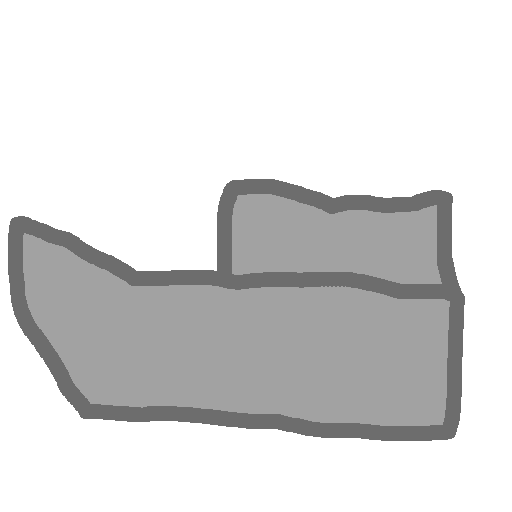
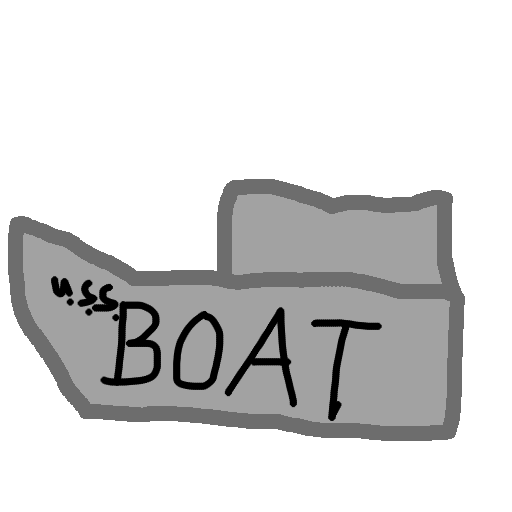
added boat and bubbles

Changed region(s): [[0.0938, 0.5312, 0.5938, 0.8125], [0.5938, 0.625, 0.75, 0.8438]]

diff --git a/src/mariana/Diver.ts b/src/mariana/Diver.ts
@@ -1,10 +1,12 @@
 import { Body, Circle } from "p2";
 import { Sprite } from "pixi.js";
 import img_diver from "../../resources/images/diver.png";
+import { Bubble } from "../Bubble";
 import BaseEntity from "../core/entity/BaseEntity";
 import Entity from "../core/entity/Entity";
 import { ControllerAxis, ControllerButton } from "../core/io/Gamepad";
 import { clamp } from "../core/util/MathUtil";
+import { rBool } from "../core/util/Random";
 import { V, V2d } from "../core/Vector";
 
 const DIVER_RADIUS = 1.0; // Size in meters
@@ -43,25 +45,10 @@ export class Diver extends BaseEntity implements Entity {
 
   onTick(dt: number) {
     if (this.getDepth() >= 0) {
-      const movementDirection = V(
-        this.game!.io.getAxis(ControllerAxis.LEFT_X),
-        this.game!.io.getAxis(ControllerAxis.LEFT_Y)
-      );
-      if (this.game!.io.keyIsDown("KeyS")) {
-        movementDirection[1] += 1;
+      if (rBool(dt)) {
+        this.game!.addEntity(new Bubble(this.getPosition().iadd([0, -0.7])));
       }
-      if (this.game!.io.keyIsDown("KeyW")) {
-        movementDirection[1] -= 1;
-      }
-      if (this.game!.io.keyIsDown("KeyA")) {
-        movementDirection[0] -= 1;
-      }
-      if (this.game!.io.keyIsDown("KeyD")) {
-        movementDirection[0] += 1;
-      }
-
-      movementDirection.magnitude = clamp(movementDirection.magnitude, 0, 1);
-
+      const movementDirection = this.getPlayerMoveInput();
       this.body.applyForce(movementDirection.imul(DIVER_SPEED));
 
       const friction = V(this.body.velocity).imul(-DIVER_FRICTION);
@@ -69,5 +56,30 @@ export class Diver extends BaseEntity implements Entity {
     } else {
       this.body.applyForce([0, this.body.mass * SURFACE_GRAVITY]);
     }
+  }
+
+  // Returns the direction that the player wants the diver to move
+  getPlayerMoveInput(): V2d {
+    const movementDirection = V(
+      this.game!.io.getAxis(ControllerAxis.LEFT_X),
+      this.game!.io.getAxis(ControllerAxis.LEFT_Y)
+    );
+    if (this.game!.io.keyIsDown("KeyS")) {
+      movementDirection[1] += 1;
+    }
+    if (this.game!.io.keyIsDown("KeyW")) {
+      movementDirection[1] -= 1;
+    }
+    if (this.game!.io.keyIsDown("KeyA")) {
+      movementDirection[0] -= 1;
+    }
+    if (this.game!.io.keyIsDown("KeyD")) {
+      movementDirection[0] += 1;
+    }
+
+    // so we don't move faster on diagonals
+    movementDirection.magnitude = clamp(movementDirection.magnitude, 0, 1);
+
+    return movementDirection;
   }
 }

diff --git a/src/Bubble.ts b/src/Bubble.ts
@@ -1,0 +1,33 @@
+import { Sprite } from "pixi.js";
+import img_bubble from "../resources/images/bubble.png";
+import BaseEntity from "./core/entity/BaseEntity";
+import Entity from "./core/entity/Entity";
+import { rNormal } from "./core/util/Random";
+import { V2d } from "./core/Vector";
+import { Layer } from "./mariana/config/layers";
+
+const SPEED = 12.0; // meters per second
+
+export class Bubble extends BaseEntity implements Entity {
+  constructor(position: V2d, private size: number = rNormal(0.22, 0.1)) {
+    super();
+
+    const sprite = (this.sprite = Sprite.from(img_bubble));
+    sprite.position.set(position[0], position[1]);
+    sprite.scale.set(size / sprite.texture.width);
+
+    this.sprite.layerName = Layer.WORLD_FRONT;
+  }
+
+  onAdd() {
+    console.log("new bubble");
+  }
+
+  onTick(dt: number) {
+    this.sprite!.y -= dt * SPEED * this.size;
+
+    if (this.sprite!.y <= 0) {
+      this.destroy();
+    }
+  }
+}

diff --git a/src/mariana/preloader/preloadImages.ts b/src/mariana/preloader/preloadImages.ts
@@ -1,11 +1,12 @@
 import img_background from "../../../resources/images/background.png";
 import img_boat from "../../../resources/images/boat.png";
+import img_bubble from "../../../resources/images/bubble.png";
 import img_diver from "../../../resources/images/diver.png";
 
 // Returns the list of all
 export function getImagesToPreload(): Set<string> {
   // use a set to make sure we don't include stuff multiple times
-  const urls = new Set([img_diver, img_background, img_boat]);
+  const urls = new Set([img_diver, img_background, img_boat, img_bubble]);
 
   // Just in case this sneaks in there somehow, make sure we don't load it
   urls.delete(undefined!);

diff --git a/resources/images/bubble.png.d.ts b/resources/images/bubble.png.d.ts
@@ -1,0 +1,4 @@
+// This file autogenerated by generate-asset-types.js
+declare const img_bubble: string;
+export default img_bubble;
+  
